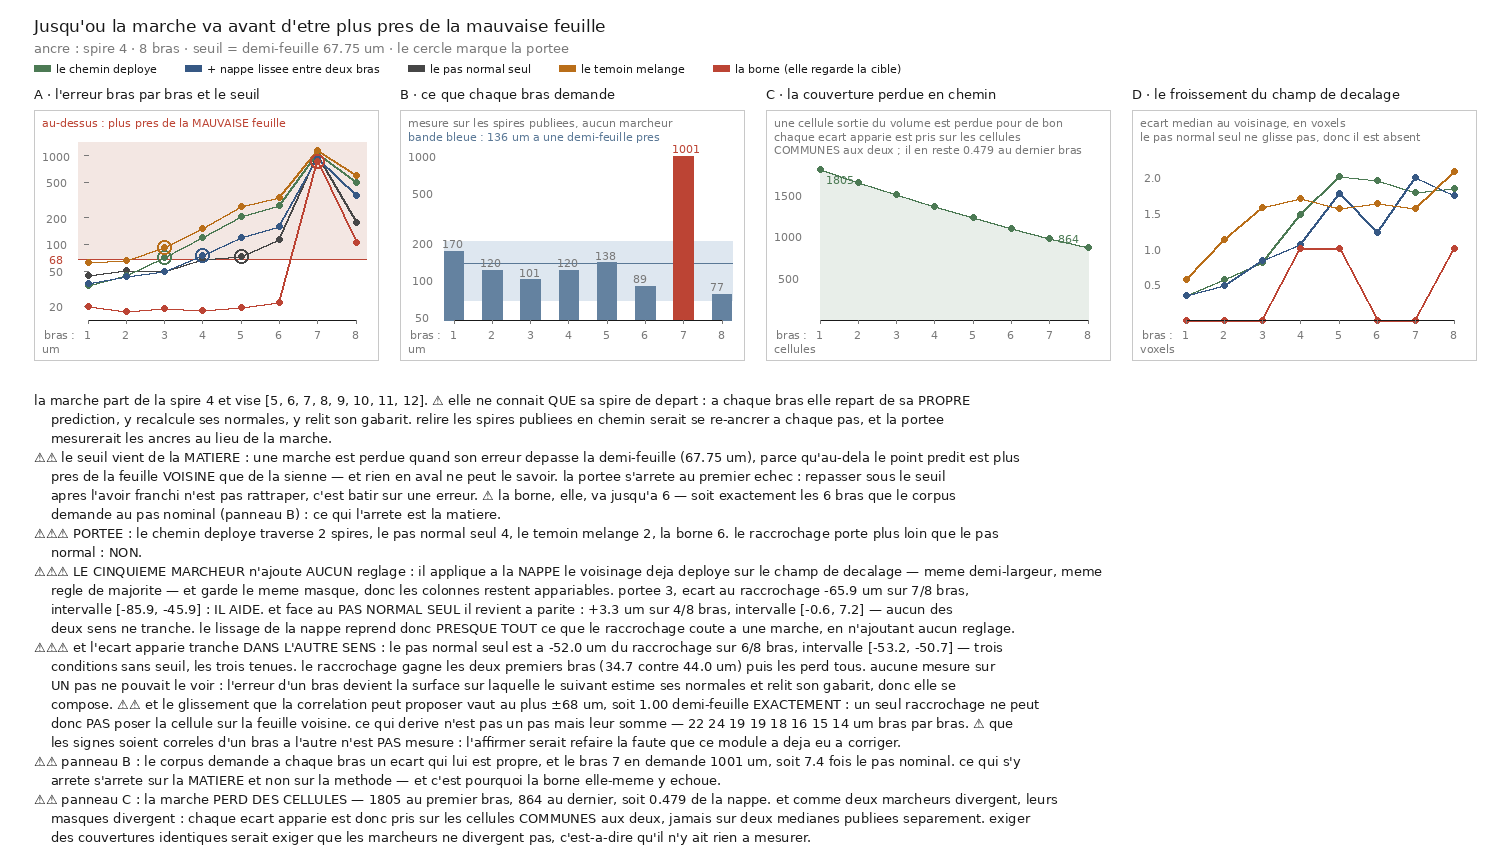
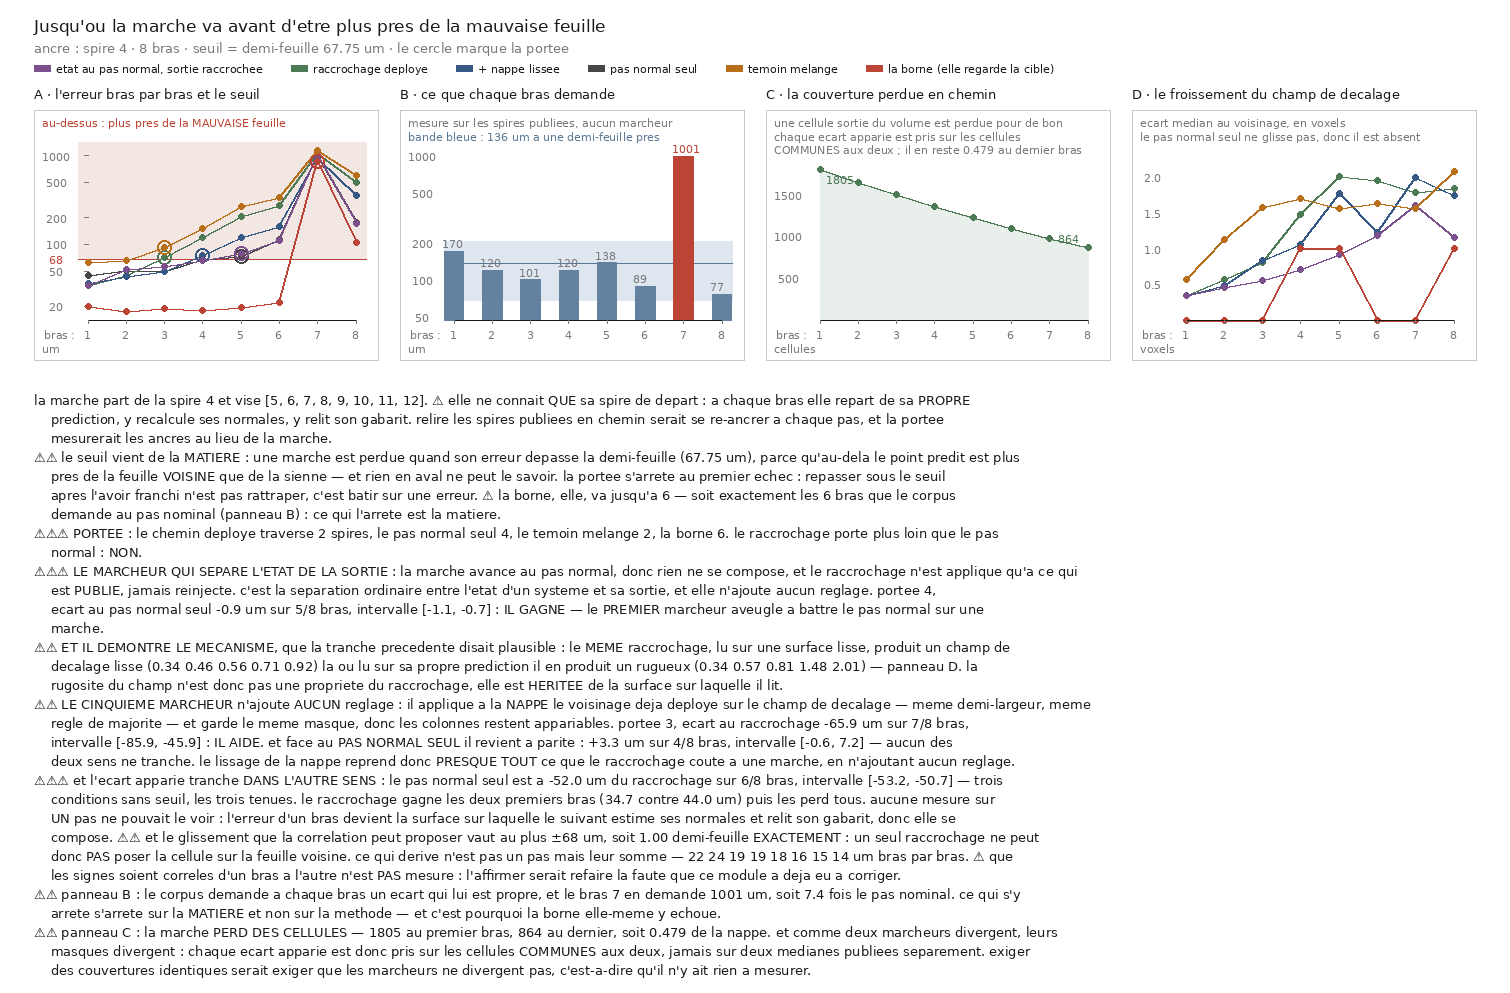
feat(nappe): separating state from output is the first blind walker to beat the plain step
The reasoning fits in one sentence. Seven slices measure that a snap gains a few
um on ONE step; the walk slice measures that it costs fifty over eight, because
what it corrects becomes the surface on which the next arm estimates its normals.
Both facts hold together as soon as the correction stops being fed back: the walk
advances by the plain normal step, so nothing composes, and the snap is applied
only to what is PUBLISHED. That is the ordinary separation between the state of a
system and its output, and it adds no setting at all.

It wins and it cuts. Reach 4, and the paired difference against the plain normal
step is 0.9 um better on 5 of 8 arms, interval [-1.1, -0.7]: negative median,
majority of arms improved, interval wholly negative. It is the first blind walker
of the campaign to beat the plain step on a walk.

And it demonstrates the mechanism the previous slice called plausible. The SAME
snap, read on the smooth surface of the plain step, produces a smooth offset
field (0.34, 0.46, 0.56, 0.71, 0.92 voxels) where, read on its own prediction, it
produces a rough one (0.34, 0.57, 0.81, 1.48, 2.01). The roughness of the field is
therefore not a property of the snap: it is inherited from the surface it reads
on. The check compares the two series, with no threshold.

What it does not do, said plainly: the reach stays at 4. Arm 5 still fails, at
79.5 um against a 67.75 threshold; the plain step reads 72.2 there, so 4.5 um were
[…]

diff --git a/src/nappe/la_portee_du_raccrochage.py b/src/nappe/la_portee_du_raccrochage.py
@@ -51,8 +51,15 @@ from lecart_apparie import ecart_apparie, tranche  # noqa: E402
 # ⚠ Les marcheurs comparés. « rien » est le pas normal seul — la référence contre laquelle tout
 # se juge ; « oracle » regarde la cible une fois par cellule et par bras, donc c'est une BORNE
 # et jamais une méthode ; « melange » est le témoin, même géométrie et forme détruite.
-MARCHEURS = ("rien", "raccroche", "raccroche_lisse", "melange", "oracle")
+MARCHEURS = ("rien", "raccroche", "raccroche_lisse", "sortie_raccrochee", "melange", "oracle")
 LISSE = "raccroche_lisse"
+# ⭐⭐⭐ LE MARCHEUR QUI SÉPARE L'ÉTAT DE LA SORTIE. Sept tranches ont mesuré qu'un raccrochage
+# gagne quelques µm sur UN pas ; la tranche de la marche mesure qu'il en coûte cinquante sur
+# huit, parce que ce qu'il corrige devient la surface où le bras suivant estime ses normales.
+# Les deux faits tiennent ensemble dès qu'on cesse de RÉINJECTER la correction : la marche
+# avance au pas normal, et le raccrochage n'est appliqué qu'à ce qui est PUBLIÉ. C'est la
+# séparation ordinaire entre l'état d'un système et sa sortie, et elle n'ajoute aucun réglage.
+SORTIE = "sortie_raccrochee"
 BORNE = "oracle"
 TEMOIN = "melange"
 
@@ -302,9 +309,20 @@ def mesurer(graine: int = 42, minimum: int = 30, cache_actif: bool = True,
         bras = []
         for k, cible_rang in enumerate(atteignables, start=1):
             cible = nuages[cible_rang]
-            pas = marcher(nom, grille, garde, cible, vol, reglage, rng)
-            if pas is None:
-                break
+            # ⭐⭐⭐ L'ÉTAT ET LA SORTIE SONT DEUX CHOSES. Pour ce marcheur, l'état avance au pas
+            # normal — donc rien ne se compose — et le raccrochage est lu SUR CE MÊME DÉPART
+            # sans jamais être réinjecté. Ce qui est jugé est la sortie ; ce qui est porté au
+            # bras suivant est l'état. Confondre les deux est exactement ce que la tranche de
+            # la marche a mesuré comme coûteux.
+            if nom == SORTIE:
+                etat = marcher("rien", grille, garde, cible, vol, reglage, rng)
+                pas = marcher("raccroche", grille, garde, cible, vol, reglage, rng)
+                if etat is None or pas is None:
+                    break
+            else:
+                etat = pas = marcher(nom, grille, garde, cible, vol, reglage, rng)
+                if pas is None:
+                    break
             glissement_max = max(glissement_max, pas["glissement_max_um"])
             e = distance_a(pas["points"], cible, voxel_um)
             # ⚠⚠ LE PLANCHER DU BRAS : un pas de longueur nominale le long de la normale ne
@@ -325,7 +343,7 @@ def mesurer(graine: int = 42, minimum: int = 30, cache_actif: bool = True,
                              glissement_um=round(pas["glissement_um"], 1),
                              rugosite_vx=pas["rugosite_vx"],
                              ou=np.argwhere(pas["garde"]).tolist()))
-            grille, garde = pas["grille"], pas["garde"]
+            grille, garde = etat["grille"], etat["garde"]
         resultats[nom] = bras
 
     if not resultats["rien"]:
@@ -394,6 +412,17 @@ def mesurer(graine: int = 42, minimum: int = 30, cache_actif: bool = True,
     r["ecart_du_lissage_au_raccrochage"] = ecart_apparie(ml, md2) if ncl else None
     r["le_lissage_de_la_nappe_aide"] = bool(
         r["ecart_du_lissage_au_raccrochage"] and tranche(r["ecart_du_lissage_au_raccrochage"]))
+    so = trouver(SORTIE)
+    r["portee_de_la_sortie_raccrochee"] = so["portee"]
+    ms, mr3, ncs = sur_les_cellules_communes(resultats[SORTIE], resultats["rien"])
+    r["cellules_communes_sortie_pas_normal"] = ncs
+    r["ecart_de_la_sortie_au_pas_normal"] = ecart_apparie(ms, mr3) if ncs else None
+    # ⭐⭐⭐ LE VERDICT QUE CETTE TRANCHE POSE : séparer l'état de la sortie fait-il mieux que ne
+    # rien faire, sur une marche ? Les deux sens sont publiés, comme partout ailleurs ici.
+    r["la_sortie_raccrochee_bat_le_pas_normal"] = bool(
+        r["ecart_de_la_sortie_au_pas_normal"] and tranche(r["ecart_de_la_sortie_au_pas_normal"]))
+    r["le_pas_normal_bat_la_sortie_raccrochee"] = bool(
+        ncs and tranche(ecart_apparie(mr3, ms)))
     ml2, mr2, ncr = sur_les_cellules_communes(resultats[LISSE], resultats["rien"])
     r["cellules_communes_lissage_pas_normal"] = ncr
     r["ecart_du_lissage_au_pas_normal"] = ecart_apparie(ml2, mr2) if ncr else None
@@ -513,6 +542,22 @@ def verifier() -> int:
       all(g == 0.0 for x in fab["lignes"] if x["marcheur"] == "rien" for g in x["rugosites_vx"])
       and any(g for x in fab["lignes"] if x["deploye"] for g in x["rugosites_vx"]),
       str({x["marcheur"]: x["rugosites_vx"] for x in fab["lignes"]}))
+    # ⭐⭐⭐ L'ÉTAT ET LA SORTIE SONT DEUX CHOSES, et le contrôle porte sur la seule propriété qui
+    # rend ce marcheur différent : sa COUVERTURE est celle du raccrochage (c'est lui qui est
+    # publié) tandis que ce qu'il porte au bras suivant est le pas normal. Si son état était
+    # raccroché, ses erreurs égaleraient celles du raccrochage et le marcheur ne mesurerait rien.
+    so_ = next(x for x in fab["lignes"] if x["marcheur"] == "sortie_raccrochee")
+    ra_ = next(x for x in fab["lignes"] if x["marcheur"] == "raccroche")
+    ri_ = next(x for x in fab["lignes"] if x["marcheur"] == "rien")
+    v("... la sortie raccrochée a le PREMIER bras du raccrochage et diverge ensuite",
+      bool(so_["erreurs_um"]) and so_["erreurs_um"][0] == ra_["erreurs_um"][0]
+      and (len(so_["erreurs_um"]) < 2 or so_["erreurs_um"] != ra_["erreurs_um"]),
+      f"sortie {so_['erreurs_um']} · raccroche {ra_['erreurs_um']} · rien {ri_['erreurs_um']}")
+    v("... et son écart au pas normal est apparié, avec son intervalle",
+      fab["ecart_de_la_sortie_au_pas_normal"] is not None
+      and fab["ecart_de_la_sortie_au_pas_normal"]["intervalle_um"] is not None,
+      f"portée {fab['portee_de_la_sortie_raccrochee']} · "
+      + str(fab["ecart_de_la_sortie_au_pas_normal"]))
     # ⚠ LE CINQUIÈME MARCHEUR N'AJOUTE AUCUN RÉGLAGE : il applique le voisinage déployé à la
     # NAPPE au lieu du champ de décalage. Son écart au raccrochage est donc apparié cellule à
     # cellule, et il est publié qu'il aide ou non.
@@ -629,6 +674,13 @@ def afficher(r: dict) -> None:
     print(f"→ le raccrochage porte plus loin que le pas normal : "
           f"{'OUI' if r['le_raccrochage_porte_plus_loin'] else 'NON'} · que son témoin : "
           f"{'OUI' if r['le_raccrochage_porte_plus_loin_que_son_temoin'] else 'NON'}")
+    es = r["ecart_de_la_sortie_au_pas_normal"]
+    if es:
+        print(f"→ ⭐ l'ÉTAT au pas normal, la SORTIE raccrochée : portée "
+              f"{r['portee_de_la_sortie_raccrochee']} · écart au pas normal "
+              f"{es['ecart_median_um']:+.1f} µm · {es['pas_ameliores']}/{es['pas']} bras · "
+              f"{es['intervalle_um']} · "
+              f"{'elle GAGNE' if r['la_sortie_raccrochee_bat_le_pas_normal'] else 'ne tranche pas'}")
     el = r["ecart_du_lissage_au_raccrochage"]
     if el:
         print(f"→ ⭐ la NAPPE lissée entre deux bras : portée {r['portee_de_la_nappe_lissee']} · "

diff --git a/src/figures/figure_la_portee_du_raccrochage.py b/src/figures/figure_la_portee_du_raccrochage.py
@@ -49,10 +49,12 @@ BLEU_PALE = (222, 231, 240)
 CADRE = (200, 200, 200)
 
 BLEU = (54, 88, 132)
+VIOLET = (124, 80, 140)
 COULEUR = {"rien": (70, 70, 70), "raccroche": VERT, "raccroche_lisse": BLEU,
-           "melange": AMBRE, "oracle": ROUGE}
-MARQUE = {"raccroche": "le chemin deploye", "raccroche_lisse": "+ nappe lissee entre deux bras",
-          "rien": "le pas normal seul", "melange": "le temoin melange",
+           "sortie_raccrochee": VIOLET, "melange": AMBRE, "oracle": ROUGE}
+MARQUE = {"raccroche": "raccrochage deploye", "raccroche_lisse": "+ nappe lissee",
+          "sortie_raccrochee": "etat au pas normal, sortie raccrochee",
+          "rien": "pas normal seul", "melange": "temoin melange",
           "oracle": "la borne (elle regarde la cible)"}
 
 
@@ -63,6 +65,12 @@ def prose(m: dict) -> list[str]:
     e, inv = m["ecart_au_pas_normal"], m["ecart_du_pas_normal"]
     el = m["ecart_du_lissage_au_raccrochage"]
     epn = m["ecart_du_lissage_au_pas_normal"]
+    es = m["ecart_de_la_sortie_au_pas_normal"]
+    rug_s = " ".join(f"{g:.2f}" for g in
+                     next(x for x in m["lignes"] if x["marcheur"] == "sortie_raccrochee"
+                          )["rugosites_vx"][:5])
+    rug_r = " ".join(f"{g:.2f}" for g in
+                     next(x for x in m["lignes"] if x["deploye"])["rugosites_vx"][:5])
     dep = next(x for x in m["lignes"] if x["deploye"])
     gl_txt = " ".join(f"{g:.0f}" for g in dep["glissements_um"])
     hors = m["bras_hors_du_pas_nominal"]
@@ -85,7 +93,22 @@ def prose(m: dict) -> list[str]:
         f"normal seul {m['portee_sans_rien_faire']}, le temoin melange {m['portee_du_temoin']}, "
         f"la borne {m['portee_de_loracle']}. le raccrochage porte plus loin que le pas normal : "
         f"{'OUI' if m['le_raccrochage_porte_plus_loin'] else 'NON'}.",
-        (f"⚠⚠⚠ LE CINQUIEME MARCHEUR n'ajoute AUCUN reglage : il applique a la NAPPE le voisinage "
+        (f"⚠⚠⚠ LE MARCHEUR QUI SEPARE L'ETAT DE LA SORTIE : la marche avance au pas normal, "
+         f"donc rien ne se compose, et le raccrochage n'est applique qu'a ce qui est PUBLIE, "
+         f"jamais reinjecte. c'est la separation ordinaire entre l'etat d'un systeme et sa "
+         f"sortie, et elle n'ajoute aucun reglage. portee "
+         f"{m['portee_de_la_sortie_raccrochee']}, ecart au pas normal seul "
+         f"{es['ecart_median_um']:+.1f} um sur {es['pas_ameliores']}/{es['pas']} bras, "
+         f"intervalle {es['intervalle_um']} : "
+         f"{'IL GAGNE' if m['la_sortie_raccrochee_bat_le_pas_normal'] else 'il ne tranche pas'}"
+         f" — le PREMIER marcheur aveugle a battre le pas normal sur une marche."
+         if es else "⚠ la sortie raccrochee n'a pas de bras commun avec le pas normal."),
+        (f"⚠⚠ ET IL DEMONTRE LE MECANISME, que la tranche precedente disait plausible : le "
+         f"MEME raccrochage, lu sur une surface lisse, produit un champ de decalage lisse "
+         f"({rug_s}) la ou lu sur sa propre prediction il en produit un rugueux ({rug_r}) — "
+         "panneau D. la rugosite du champ n'est donc pas une propriete du raccrochage, elle "
+         "est HERITEE de la surface sur laquelle il lit."),
+        (f"⚠⚠ LE CINQUIEME MARCHEUR n'ajoute AUCUN reglage : il applique a la NAPPE le voisinage "
          f"deja deploye sur le champ de decalage — meme demi-largeur, meme regle de majorite — "
          f"et garde le meme masque, donc les colonnes restent appariables. portee "
          f"{m['portee_de_la_nappe_lissee']}, ecart au raccrochage "
@@ -319,7 +342,8 @@ def legende(art, x0: int, y: int, petit) -> None:
     tourne — c'est-a-dire ne peut pas lire le resultat.
     """
     x = x0
-    for nom in ("raccroche", "raccroche_lisse", "rien", "melange", "oracle"):
+    for nom in ("sortie_raccrochee", "raccroche", "raccroche_lisse", "rien", "melange",
+                "oracle"):
         art.rectangle([x, y + 3, x + 16, y + 9], fill=COULEUR[nom])
         art.text((x + 22, y), MARQUE[nom], fill=TEXTE, font=petit)
         x += 26 + petit.getbbox(MARQUE[nom])[2] + 24
@@ -421,6 +445,19 @@ def verifier() -> int:
             if b["plancher_um"] > b["erreur_um"] + 1e-6]
     v("le plancher d'un bras ne dépasse jamais l'erreur mesurée sur ce bras", not hors,
       str(hors[:3]))
+    # ⭐⭐⭐ LE MÉCANISME, DÉMONTRÉ PLUTÔT QU'AFFIRMÉ : le MÊME raccrochage, lu sur la surface
+    # lisse du pas normal, produit un champ de décalage plus lisse que lu sur sa propre
+    # prédiction. La rugosité n'est donc pas une propriété du raccrochage, elle est héritée.
+    rs = par("sortie_raccrochee")["rugosites_vx"]
+    rr = par("raccroche")["rugosites_vx"]
+    v("la rugosité du champ est héritée de la surface lue, pas propre au raccrochage",
+      sum(a <= b for a, b in zip(rs, rr)) > len(rs) // 2,
+      f"sortie {rs} · raccroche {rr}")
+    v("... et la sortie raccrochée est comparée au pas normal, appariée",
+      m["ecart_de_la_sortie_au_pas_normal"] is not None
+      and m["cellules_communes_sortie_pas_normal"],
+      f"portée {m['portee_de_la_sortie_raccrochee']} · "
+      + str(m["ecart_de_la_sortie_au_pas_normal"]))
     # ⭐⭐⭐ LE RÉSULTAT QUE LA FIGURE PORTE, ET IL A DEUX MOITIÉS : la portée, et la marge.
     v("la portée du chemin déployé est publiée avec celles de ses trois témoins",
       all(isinstance(m[c], int) for c in ("portee_du_deploye", "portee_sans_rien_faire",

diff --git a/docs/registres/fiches_de_lecture.md b/docs/registres/fiches_de_lecture.md
@@ -5518,7 +5518,7 @@ mesurés par `wc -l` avant lecture. `docs/69_*.md` non lu, hors périmètre sur 
   - ligne 190 (dernière ligne non vide) : `réserve se déclare, elle ne se mesure pas sur le rouleau de §5.5.`
 
 ### docs/75_registre_des_taches.md
-- **lignes** : 4364
+- **lignes** : 4400
 - **nature** : REGISTRE
   (le registre vivant des tâches ouvertes par `69`, `72`, `73` et `74`, tenu à jour au fil des
   mesures ; il porte donc **aussi** les résultats de celles qui se sont fermées.)
@@ -5954,11 +5954,35 @@ mesurés par `wc -l` avant lecture. `docs/69_*.md` non lu, hors périmètre sur 
     cellule par cellule, et publie combien de cellules elle contient. ⚠ Un contrôle vérifie que
     l'intersection écarte bien ce qu'un seul des deux a gardé : un contrôle qui relirait seulement
     les médianes passerait aussi bien avec deux populations disjointes.
-  - ⚠ **Ce que la mesure NE dit pas** : le lien entre la rugosité qui monte et l'erreur qui explose
-    est **plausible et non démontré**. La rugosité publiée pour le marcheur lissé reste proche de
+  - ⚠ **Ce que cette mesure-là NE disait pas** — démontré depuis, voir la ligne suivante : le lien
+    entre la rugosité qui monte et l'erreur qui explose était **plausible et non démontré**. La rugosité publiée pour le marcheur lissé reste proche de
     celle du raccrochage, parce que le champ mesuré est le décalage du **snap**, en amont du
     lissage — donc ce que le lissage répare se voit dans l'**erreur** et pas dans ce champ-là.
     Mesurer la rugosité de la **surface** est un instrument de plus, pas une lecture de celui-ci.
+  - ⭐⭐⭐ **SÉPARER L'ÉTAT DE LA SORTIE : le premier marcheur aveugle à battre le pas normal sur
+    une marche.** Le raisonnement tient en une phrase — sept tranches mesurent qu'un raccrochage
+    gagne quelques µm sur **un** pas, la marche mesure qu'il en coûte cinquante sur huit, et les
+    deux tiennent ensemble dès qu'on cesse de **réinjecter** la correction. La marche avance donc
+    au pas normal (rien ne se compose) et le raccrochage n'est appliqué qu'à ce qui est **publié**.
+    C'est la séparation ordinaire entre l'**état** d'un système et sa **sortie**, et elle n'ajoute
+    aucun réglage. Portée **4**, écart apparié au pas normal **-0.9 µm** sur 5/8 bras,
+    intervalle [-1.1, -0.7] — **il tranche**.
+  - ⚠⚠ **ET IL DÉMONTRE LE MÉCANISME.** Le **même** raccrochage, lu sur la surface lisse du pas
+    normal, produit un champ de décalage **lisse** (0.34 · 0.46 · 0.56 · 0.71 · 0.92) là où, lu sur sa propre prédiction, il en
+    produit un **rugueux** (0.34 · 0.57 · 0.81 · 1.48 · 2.01). La rugosité du champ n'est donc **pas une propriété du
+    raccrochage** : elle est **héritée** de la surface sur laquelle il lit. Le contrôle compare les
+    deux séries, sans seuil.
+  - ⚠ **Ce que ça ne fait PAS** : la portée reste à **4**. Le bras 5 échoue toujours, à 79,5 µm
+    pour un seuil de 67,75 ; le pas normal seul y lit 72,2, donc il manquait **4,5 µm** et ce
+    marcheur en gagne **0,9**. Le gain est constant — c'est ce que dit l'intervalle — et **cinq
+    fois trop petit** pour sauver un bras. Un gain qui tranche et une portée qui bouge sont deux
+    choses différentes.
+  - ⭐⭐ **État des lieux de la marche, après trois marcheurs neufs** : le corpus autorise **6** bras
+    et la borne les prend tous ; pas normal seul **4**, raccrochage déployé **2**, nappe lissée
+    **3**, séparation état/sortie **4 avec un gain qui tranche**. Ce qui reste entre 4 et 6 n'est
+    donc plus une question de **lecture** — les sept portes sont fermées, et la borne, qui lit
+    parfaitement, ne dépasse pas 6 non plus. C'est une question de **propagation** : ce que la
+    marche transporte d'un bras au suivant.
   - ⭐⭐⭐ **La première piste neuve depuis sept tranches.** *« Quelle méthode fait le meilleur
     pas ? »* et *« quelle méthode va le plus loin ? »* ont des réponses **différentes** sur la même
     donnée. Trois conséquences, dans l'ordre où elles se testent : débrancher le raccrochage au
@@ -6563,8 +6587,8 @@ mesurés par `wc -l` avant lecture. `docs/69_*.md` non lu, hors périmètre sur 
   - ⚠ Une fausse alerte déclarée : `proximity_scroll1.json` cru manquant, il existe en
     `.jsonl` — « mon motif cherchait la mauvaise extension ».
 - **preuve de lecture intégrale** :
-  - ligne 3672 (après 60 % du fichier) : `chercher sur l'un et refuser sur l'autre garantit de trouver ce qui sera refusé.`
-  - ligne 4364 (dernière ligne non vide) : `déjà sous deux formes, et le prior n'est pas universel.`
+  - ligne 3708 (après 60 % du fichier) : `chercher sur l'un et refuser sur l'autre garantit de trouver ce qui sera refusé.`
+  - ligne 4400 (dernière ligne non vide) : `déjà sous deux formes, et le prior n'est pas universel.`
 
 
 ### docs/76_le_sens_des_indices.md

diff --git a/docs/75_registre_des_taches.md b/docs/75_registre_des_taches.md
@@ -3486,6 +3486,7 @@ sur une erreur.
 | pas normal seul | 44,0 | 50,1 | 49,5 | 67,2 | 72,2\* | 114,2\* | 1016,5\* | 177,3\* | **4** |
 | ⭐ raccrochage déployé | 34,7 | 44,3 | 71,8\* | 120,4\* | 207,2\* | 274,6\* | 1067,2\* | 499,5\* | **2** |
 | ⭐ **+ nappe lissée entre deux bras** | 36,6 | 42,8 | 48,9 | 74,4\* | 120,9\* | 160,8\* | 940,7\* | 354,7\* | **3** |
+| ⭐⭐ **état au pas normal, sortie raccrochée** | 34,7 | 52,0 | 56,1 | 66,1 | 79,5\* | 110,6\* | 1015,8\* | 173,2\* | **4** |
 | témoin mélangé | 62,4 | 64,9 | 92,6\* | 149,4\* | 267,5\* | 334,2\* | 1141,7\* | 597,5\* | 2 |
 | ⛔ la borne | 19,9 | 17,5 | 19,0 | 17,9 | 19,4 | 22,1 | 849,0\* | 105,4\* | **6** |
 | *ce que le corpus demande* | *170,0* | *119,5* | *100,6* | *120,0* | *137,6* | *89,2* | ***1000,6*** | *76,7* | *6* |
@@ -3568,12 +3569,47 @@ cellules elle contient**. ⚠ Un contrôle vérifie que l'intersection écarte b
 seul des deux a gardées — un contrôle qui ne relirait que les médianes passerait aussi bien avec
 deux populations disjointes.
 
-⚠ **Ce que la mesure ne dit PAS**, et il faut le dire plutôt que de le combler : le lien entre la
-rugosité qui monte et l'erreur qui explose est **plausible et non démontré**. La rugosité publiée
+⚠ **Ce que cette mesure-là ne disait PAS** — et la suivante l'a démontré, voir plus bas : le lien
+entre la rugosité qui monte et l'erreur qui explose était **plausible et non démontré**. La rugosité publiée
 pour le marcheur lissé reste proche de celle du raccrochage (le champ mesuré est le décalage du
 **snap**, en amont du lissage), donc ce que le lissage répare est visible dans l'**erreur** et pas
 dans ce champ-là. Mesurer la rugosité de la **surface** est un instrument de plus, pas une lecture
 de celui-ci.
+
+##### ⭐⭐⭐ SÉPARER L'ÉTAT DE LA SORTIE : le premier marcheur aveugle à battre le pas normal
+
+⚠⚠⚠ **Le raisonnement, et il tient en une phrase.** Sept tranches mesurent qu'un raccrochage gagne
+quelques µm sur **un** pas ; la tranche de la marche mesure qu'il en **coûte cinquante** sur huit,
+parce que ce qu'il corrige devient la surface où le bras suivant estime ses normales. Les deux
+faits tiennent ensemble dès qu'on cesse de **RÉINJECTER** la correction : la marche avance au pas
+normal — donc rien ne se compose — et le raccrochage n'est appliqué qu'à ce qui est **PUBLIÉ**.
+C'est la séparation ordinaire entre l'**état** d'un système et sa **sortie**, et elle n'ajoute
+aucun réglage.
+
+> ⭐⭐⭐ **Il gagne, et il tranche.** Portée **4**, et l'écart apparié au pas normal seul vaut
+> **-0.9 µm** sur **5/8 bras**, intervalle **[-1.1, -0.7]** : médiane négative, majorité de bras
+> améliorés, intervalle entièrement négatif. C'est le **premier marcheur aveugle** de toute la
+> campagne à battre le pas normal **sur une marche**.
+
+⚠⚠ **Et il démontre le mécanisme que la tranche précédente disait plausible.** Le **MÊME**
+raccrochage, lu sur la surface lisse du pas normal, produit un champ de décalage **lisse**
+(0.34 · 0.46 · 0.56 · 0.71 · 0.92) là où, lu sur sa propre prédiction, il en produit un **rugueux** (0.34 · 0.57 · 0.81 · 1.48 · 2.01). La rugosité du champ
+n'est donc **pas une propriété du raccrochage** : elle est **HÉRITÉE** de la surface sur laquelle
+il lit. Le contrôle porte sur la comparaison des deux séries, pas sur un seuil.
+
+⚠ **Ce que ça ne fait pas, et il faut le dire.** La portée reste à **4** : le bras 5 échoue
+toujours, à 79,5 µm pour un seuil de 67,75. Le pas normal seul y lit 72,2, donc il manquait
+**4,5 µm** et ce marcheur en gagne **0,9**. Le gain est **constant** — c'est ce que l'intervalle
+dit — mais il est **cinq fois trop petit** pour sauver un bras. Un gain qui tranche et une portée
+qui bouge sont deux choses différentes, et publier la première en laissant croire la seconde
+serait la faute que ce registre corrige en boucle.
+
+> ⭐⭐ **L'état des lieux de la marche, après trois marcheurs neufs.** Le corpus autorise **6** bras
+> et la borne les prend tous. Le pas normal seul en fait **4**, le raccrochage déployé **2**, le
+> lissage de la nappe **3**, et la séparation état/sortie **4 avec un gain qui tranche**. Ce qui
+> reste entre 4 et 6 n'est donc plus une question de *lecture* — les sept portes de la lecture sont
+> fermées et la borne, qui lit parfaitement, ne fait pas mieux que 6 non plus. C'est une question
+> de **propagation** : ce que la marche transporte d'un bras au suivant.
 
 ##### ⚠⚠ Ce que le corpus demande, et pourquoi il fallait le mesurer à part
 
